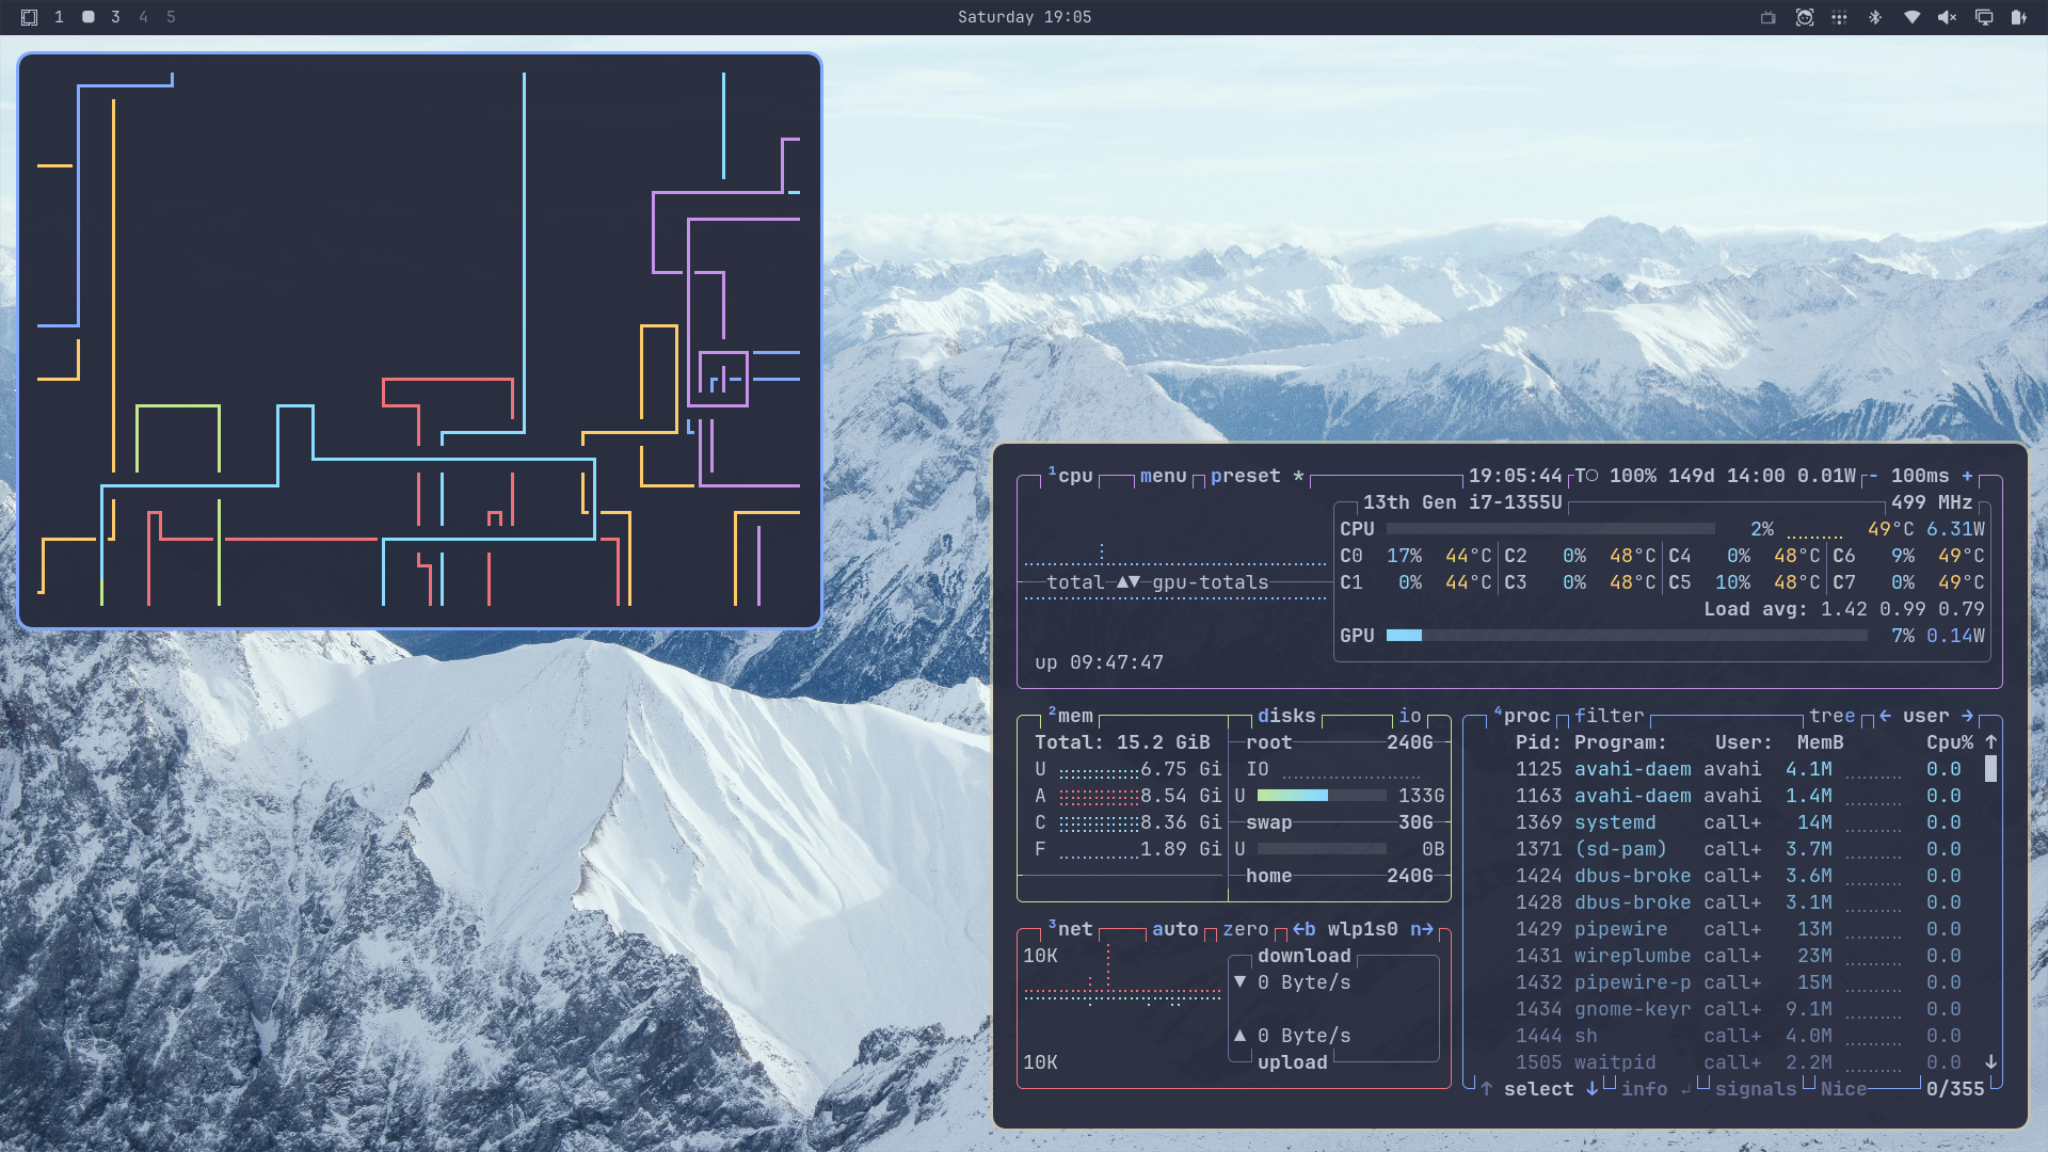
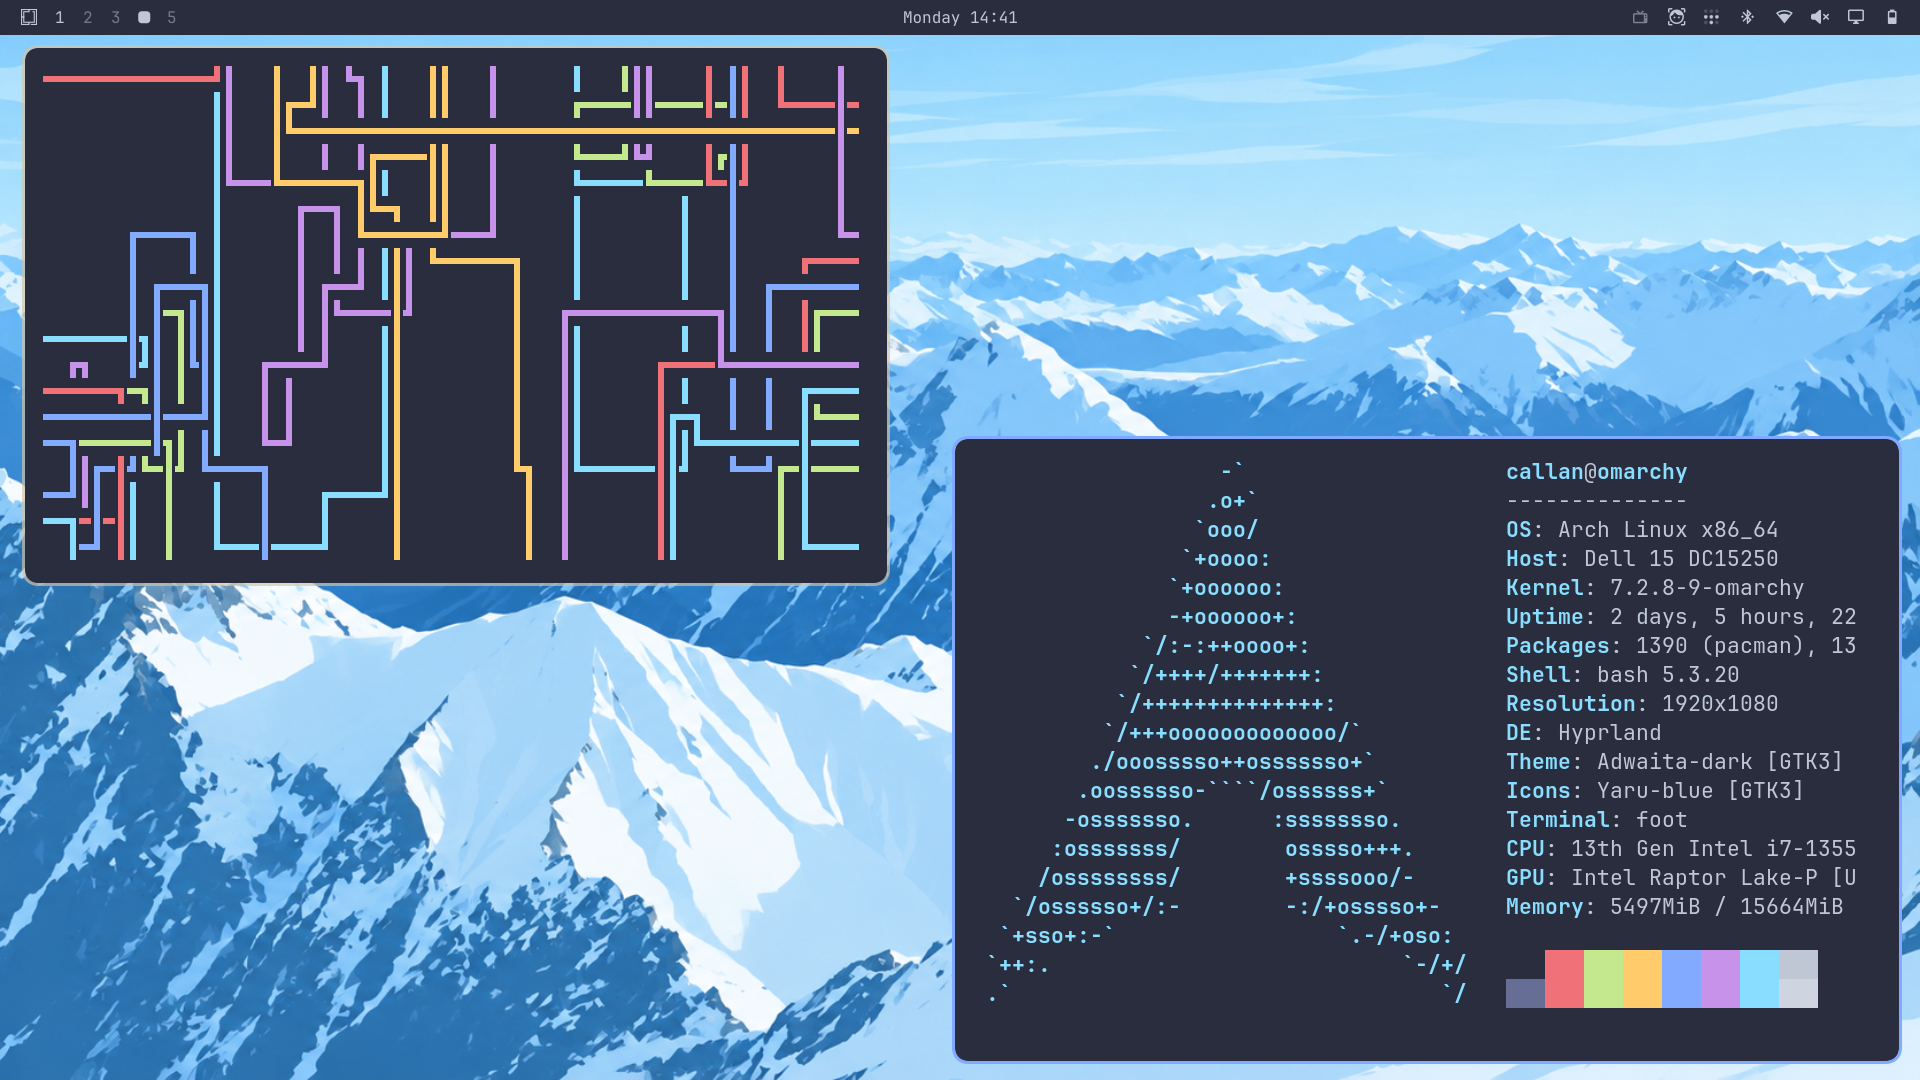
Windswept First Version

diff --git a/backgrounds/LICENSE.md b/backgrounds/LICENSE.md
@@ -1,1 +1,15 @@
-The wallpapers in this directory are sourced from Unsplash and are subject to the [Unsplash License](https://unsplash.com/license). They are not covered by the project's root MIT License.
+
+# Wallpapers License
+
+The visual assets contained in this directory are dedicated to the public domain under the Creative Commons CC0 1.0 Universal designation. 
+
+You can copy, modify, distribute, and perform the work, even for commercial purposes, all without asking permission.
+
+## Creation & Attribution Details
+These wallpapers are derivative digital artworks generated via ChatGPT, based on original source photography from Unsplash. 
+
+- **Original Base Images:** 
+https://unsplash.com/photos/a-mountain-range-covered-in-snow-with-mountains-in-the-background-VsMPQq60LKI
+https://unsplash.com/photos/snowy-mountain-peak-iFEvKX0LC2k
+- **Modifications:** Remixed and stylized into vector art via generative AI.
+- **License Link:** https://creativecommons.org
